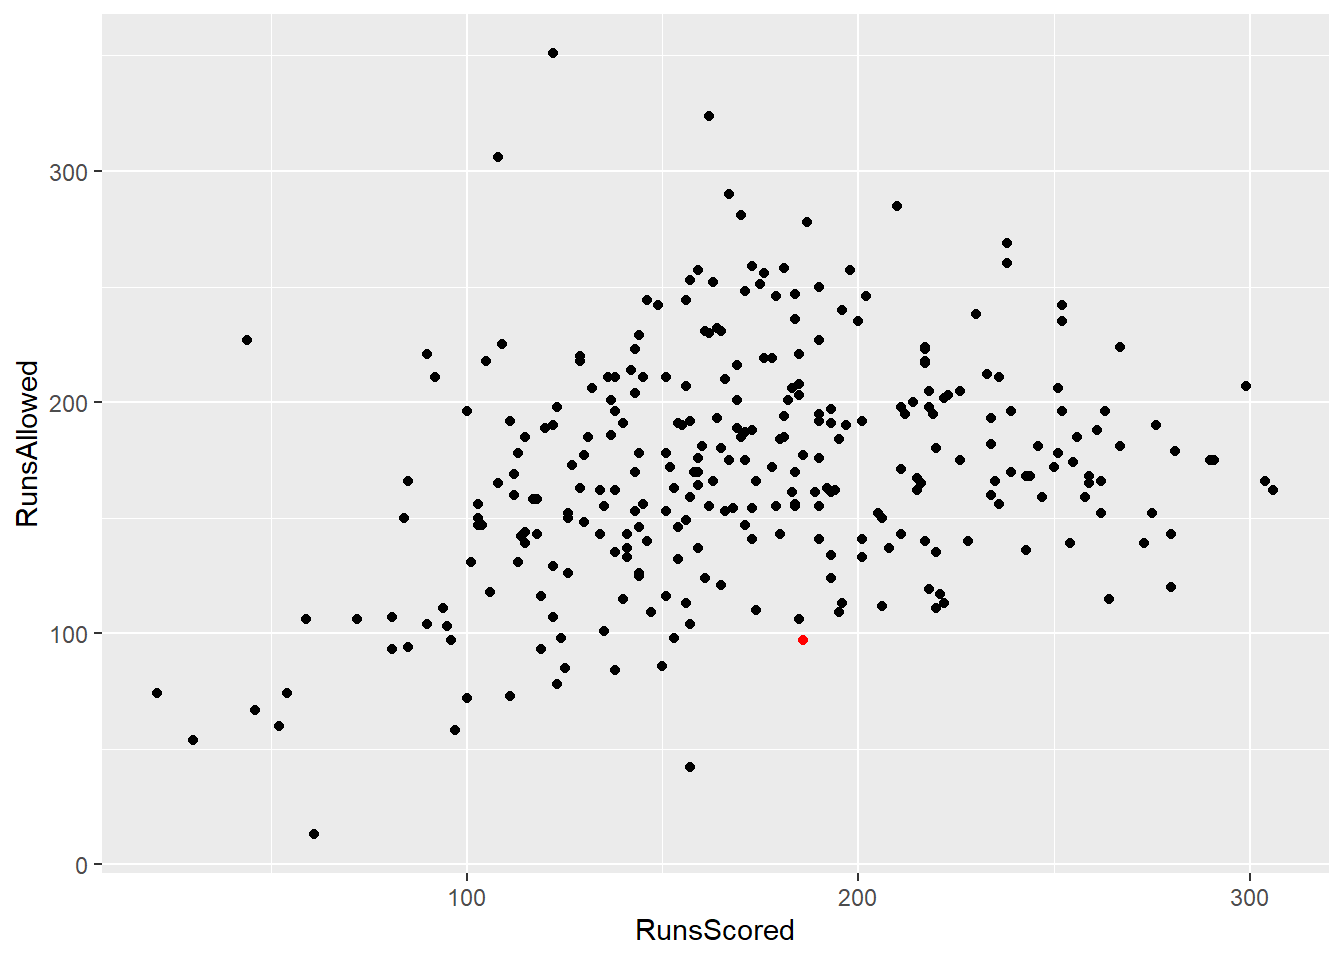
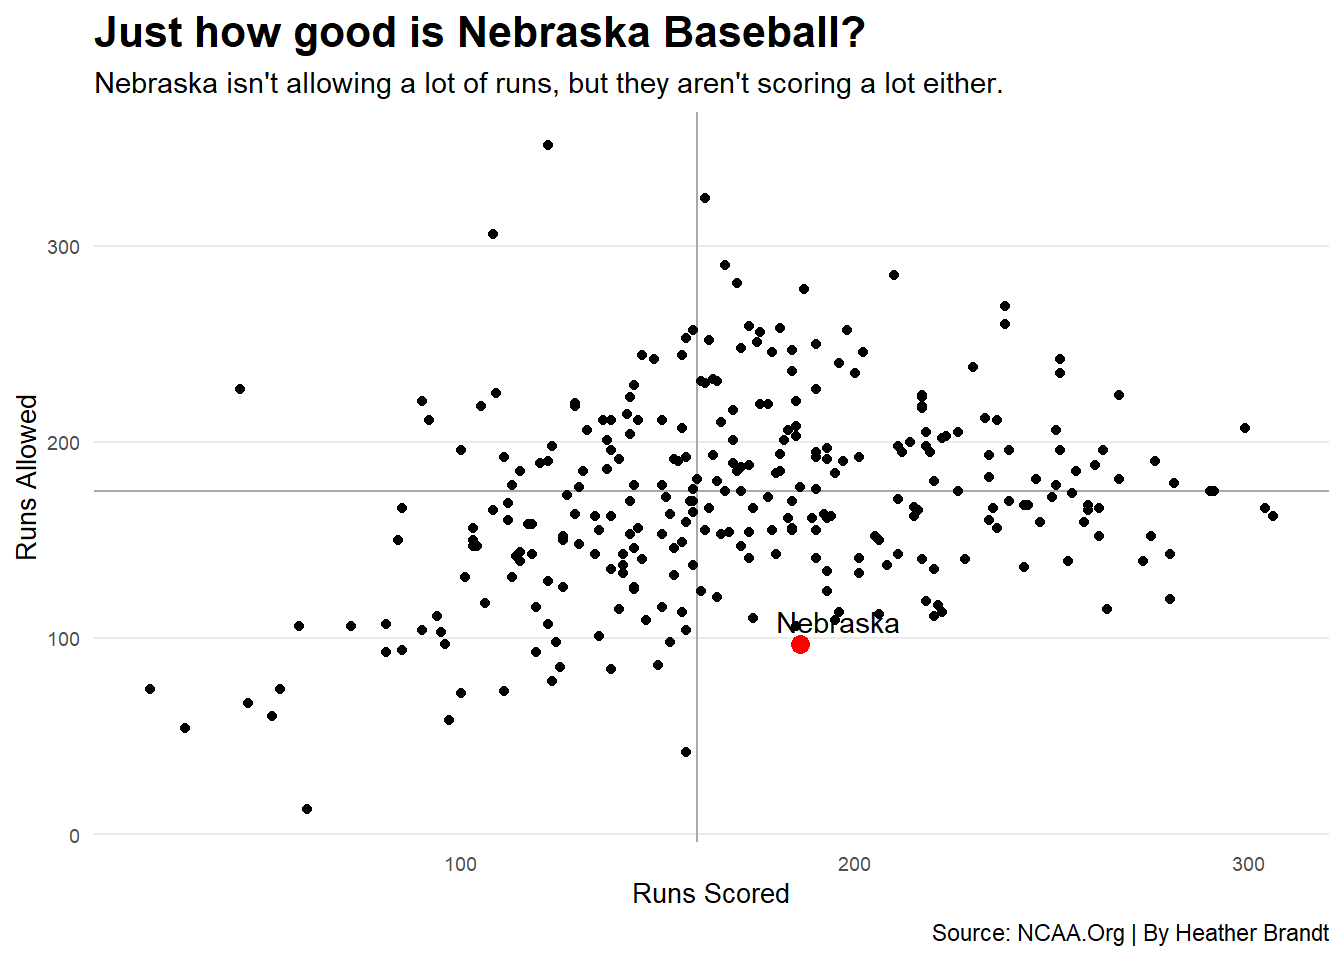
Updating post

diff --git a/2021/04/25/bolt-era-is-nebraska-back/index.html b/2021/04/25/bolt-era-is-nebraska-back/index.html
@@ -62,7 +62,7 @@
 
   <article class="article">
     
-    <span class="article-duration">1 min read</span>
+    <span class="article-duration">3 min read</span>
     
 
     <h1 class="article-title">Bolt Era: Is Nebraska back?</h1>
@@ -75,22 +75,52 @@
       
 
 
+<p>After only 15 games the 2020 season ended abruptly on March 12, 2020, due to COVID-19. At that time the Huskers were on a three game winning streak and had won six of their last seven games.</p>
+<p>It had 359 days between the end of the 2020 season and the start of the 2021 season. To say Husker fans are glad to be back at Hawks Field cheering on the Huskers would be a huge understatement.</p>
 <pre class="r"><code>library(tidyverse)
-library(ggalt)</code></pre>
+library(ggalt)
+library(ggplot2)
+library(ggrepel)</code></pre>
 <pre class="r"><code>teamhitting &lt;- read_csv(&quot;Baseball Hitting Stats.csv&quot;)
 teampitching &lt;- read_csv(&quot;Baseball Pitching Stats.csv&quot;)</code></pre>
-<pre class="r"><code>runsscored &lt;- teamhitting %&gt;% rename(RunsScored = R) %&gt;% select(Season, School, RunsScored) 
-runsallowed &lt;- teampitching %&gt;% select(Season, School, R) %&gt;% rename(RunsAllowed = R)
+<p>If you have been paying attention at all to the baseball team, you would know they are currently sitting at the top of the Big Ten Standings in first place.</p>
+<p>But just how good are the Huskers?</p>
+<p>Well first let's take a look at their runs scored vs. runs allowed.</p>
+<pre class="r"><code>runsscored &lt;- teamhitting %&gt;% rename(RunsScored = R) %&gt;% 
+  select(Season, School, RunsScored) 
+runsallowed &lt;- teampitching %&gt;%
+  select(Season, School, R) %&gt;% 
+  rename(RunsAllowed = R)
 
-runs &lt;- runsscored %&gt;% full_join(runsallowed) %&gt;% mutate(SchoolSeason = paste(School, Season, sep=&quot; &quot;))</code></pre>
+runs &lt;- runsscored %&gt;% full_join(runsallowed) %&gt;% 
+  mutate(SchoolSeason = paste(School, Season, sep=&quot; &quot;))</code></pre>
 <pre><code>## Joining, by = c(&quot;Season&quot;, &quot;School&quot;)</code></pre>
 <pre class="r"><code>current &lt;- runs %&gt;% filter(Season == &quot;2021&quot;)
 nu &lt;- runs %&gt;% filter(School == &quot;Nebraska&quot; &amp; Season == &quot;2021&quot;)</code></pre>
-<pre class="r"><code>ggplot() + geom_point(data=current, aes(x=RunsScored, y=RunsAllowed)) +
-  geom_point(data=nu, aes(x=RunsScored, y=RunsAllowed), color=&quot;red&quot;)</code></pre>
-<p><img src="/2021/04/25/bolt-era-is-nebraska-back/index_files/figure-html/unnamed-chunk-4-1.png" width="672" /></p>
-<pre class="r"><code>thisseason&lt;- teampitching %&gt;% filter(Season == &quot;2021&quot;, Conference == &quot;Big Ten&quot;)</code></pre>
 <pre class="r"><code>ggplot() + 
+  geom_hline(yintercept=175, color=&quot;dark grey&quot;) + 
+  geom_vline(xintercept=160, color=&quot;dark grey&quot;) +
+  geom_point(data=current, aes(x=RunsScored, y=RunsAllowed)) +
+  geom_point(data=nu, aes(x=RunsScored, y=RunsAllowed), color=&quot;red&quot;, size=3) +
+  geom_text_repel(data=nu, aes(x=RunsScored, y=RunsAllowed, label= School)) +
+  labs(x=&quot;Runs Scored&quot;, y=&quot;Runs Allowed&quot;, 
+       title=&quot;Just how good is Nebraska Baseball?&quot;, 
+       subtitle=&quot;Nebraska isn&#39;t allowing a lot of runs, but they aren&#39;t scoring a lot either.&quot;,
+       caption=&quot;Source: NCAA.Org | By Heather Brandt&quot;)+
+  theme_minimal()+
+  theme(
+    plot.title = element_text(size = 16, face = &quot;bold&quot;),
+    axis.title = element_text(size = 10),
+    axis.text = element_text(size = 7),
+    axis.ticks = element_blank(),
+    panel.grid.minor = element_blank(),
+    panel.grid.major.x = element_blank()
+  )</code></pre>
+<p><img src="/2021/04/25/bolt-era-is-nebraska-back/index_files/figure-html/unnamed-chunk-4-1.png" width="672" /> As you can tell from the above chart Nebraska isn't allowing a lot of runs but they aren't scoring that many either.</p>
+<p>So, what are some contributing factors behind Nebraska not allowing many runs? Is it strikouts? Or maybe it's something else?</p>
+<pre class="r"><code>thisseason&lt;- teampitching %&gt;% 
+  filter(Season == &quot;2021&quot;, Conference == &quot;Big Ten&quot;)
+ggplot() + 
   geom_dumbbell(
     data=thisseason, 
     aes(y=reorder(School,SO), x=SO, xend=BB),
@@ -98,17 +128,38 @@ nu &lt;- runs %&gt;% filter(School == &quot;Nebraska&quot; &amp; Season == &quot
 colour = &quot;light gray&quot;,
     colour_x = &quot;black&quot;,
     colour_xend = &quot;red&quot;)+
+  labs(y=&quot;Team&quot;, x= &quot;Strikeouts/Walks&quot;, 
+       title = &quot;What&#39;s the key to Husker&#39;s success?&quot;, 
+subtitle =&quot;Surprisingly their pitching is showing alot of promise.&quot;) +
   theme_minimal()+
-  labs(y=&quot;Strikouts&quot;, x= &quot;Team&quot;, 
-       title = &quot;Husker&#39;s Pitching Showing Promise&quot;, 
-subtitle =&quot;&quot;)</code></pre>
-<p><img src="/2021/04/25/bolt-era-is-nebraska-back/index_files/figure-html/unnamed-chunk-6-1.png" width="672" /></p>
-<pre class="r"><code>lastsixseasons&lt;- teamhitting %&gt;% filter(School == &quot;Nebraska&quot;)
-
-
+  theme(
+    plot.title = element_text(size = 16, face = &quot;bold&quot;),
+    axis.title = element_text(size = 10),
+    axis.text = element_text(size = 7),
+    axis.ticks = element_blank(),
+    panel.grid.minor = element_blank()
+  )</code></pre>
+<p><img src="/2021/04/25/bolt-era-is-nebraska-back/index_files/figure-html/unnamed-chunk-5-1.png" width="672" /> Many have been surpised by the Husker pitchers this year. Nebraska has currently struck out 251 batters compared to their opponents 250. Nebraska has also only walked 82 batters compared to their opponents 140. I would say the pitchers are having a pretty good year.</p>
+<p>The last thing I wanted to look at is the Huskers on-base percentage.</p>
+<p>As you can see in 2016 the Huskers weren't getting on base often, but through the years they have been headed in an upward direction as more players are getting on base. You can't score if you don't get on base.</p>
+<p>It's still early but if Nebraska keeps playing the way they are there is a good chance they will claim the Big Ten title and we may just seem them in the regionals.</p>
+<pre class="r"><code>lastsixseasons&lt;- teamhitting %&gt;% 
+  filter(School == &quot;Nebraska&quot;)
 ggplot() + 
-  geom_line(data=lastsixseasons, aes(x=Season, y=OBPct))</code></pre>
-<p><img src="/2021/04/25/bolt-era-is-nebraska-back/index_files/figure-html/unnamed-chunk-7-1.png" width="672" /></p>
+  geom_line(data=lastsixseasons, 
+  aes(x=Season, y=OBPct), color=&quot;red&quot;)+
+  labs(y=&quot;On-base Percentage&quot;, x= &quot;Season&quot;, 
+   title = &quot;How does Nebraska compare to past 6 seaons?&quot;, 
+subtitle =&quot;It looks like Nebraska is on an upward trend.&quot;) +
+  theme_minimal()+
+  theme(
+    plot.title = element_text(size = 16, face = &quot;bold&quot;),
+    axis.title = element_text(size = 10),
+    axis.text = element_text(size = 7),
+    axis.ticks = element_blank(),
+    panel.grid.minor = element_blank()
+  )</code></pre>
+<p><img src="/2021/04/25/bolt-era-is-nebraska-back/index_files/figure-html/unnamed-chunk-6-1.png" width="672" /></p>
 
     </div>
   </article>
